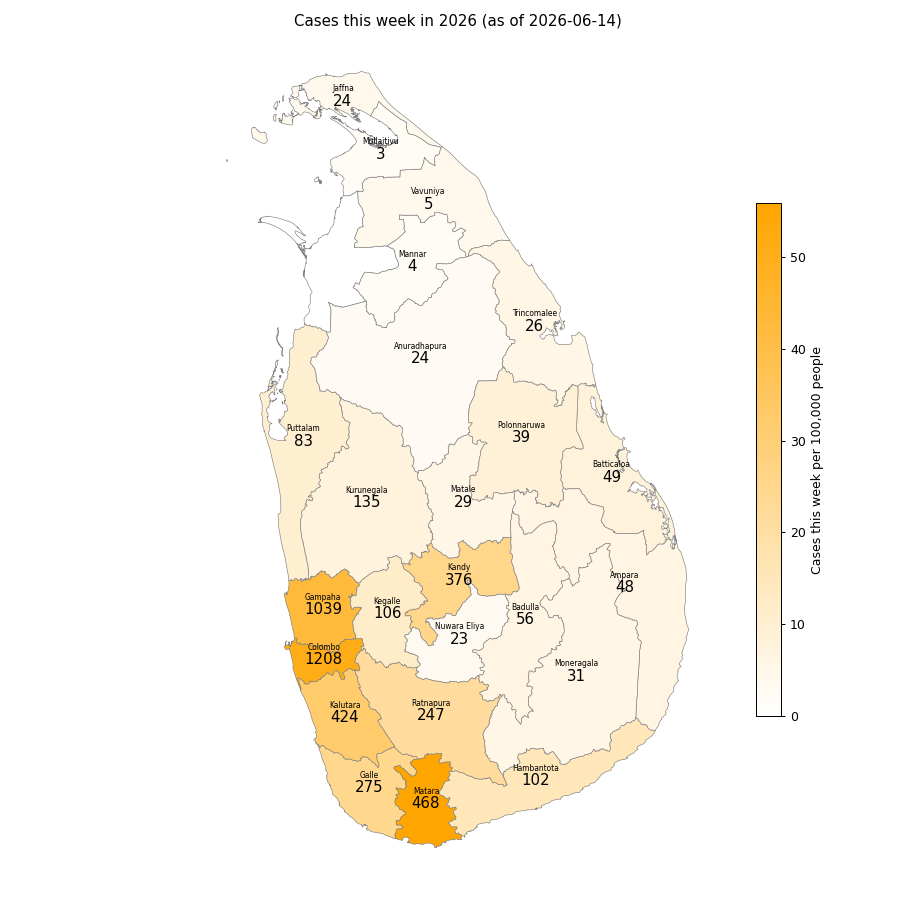
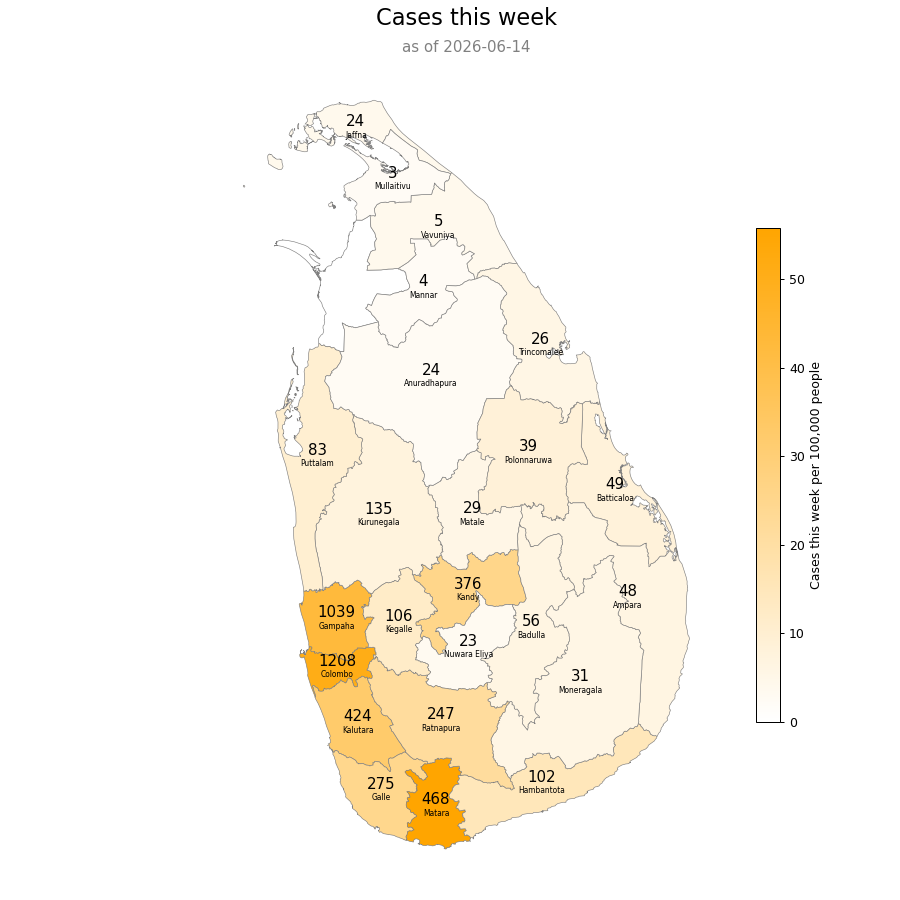
Refactor code structure for improved readability and maintainability

diff --git a/README.md b/README.md
@@ -7,14 +7,14 @@
 ![](images/cases-this-week_by_region_2026-06-14.png)
 
 
-## Deaths in 2026
+## Cumulative Deaths in 2026
 
-![](images/deaths-in-2026_by_region_2026-06-14.png)
+![](images/cumulative-deaths-in-2026_by_region_2026-06-14.png)
 
 
-## Cases in 2026
+## Cumulative Cases in 2026
 
-![](images/cases-in-2026_by_region_2026-06-23.png)
+![](images/cumulative-cases-in-2026_by_region_2026-06-23.png)
 
 
 ## Appendix: Source Reports